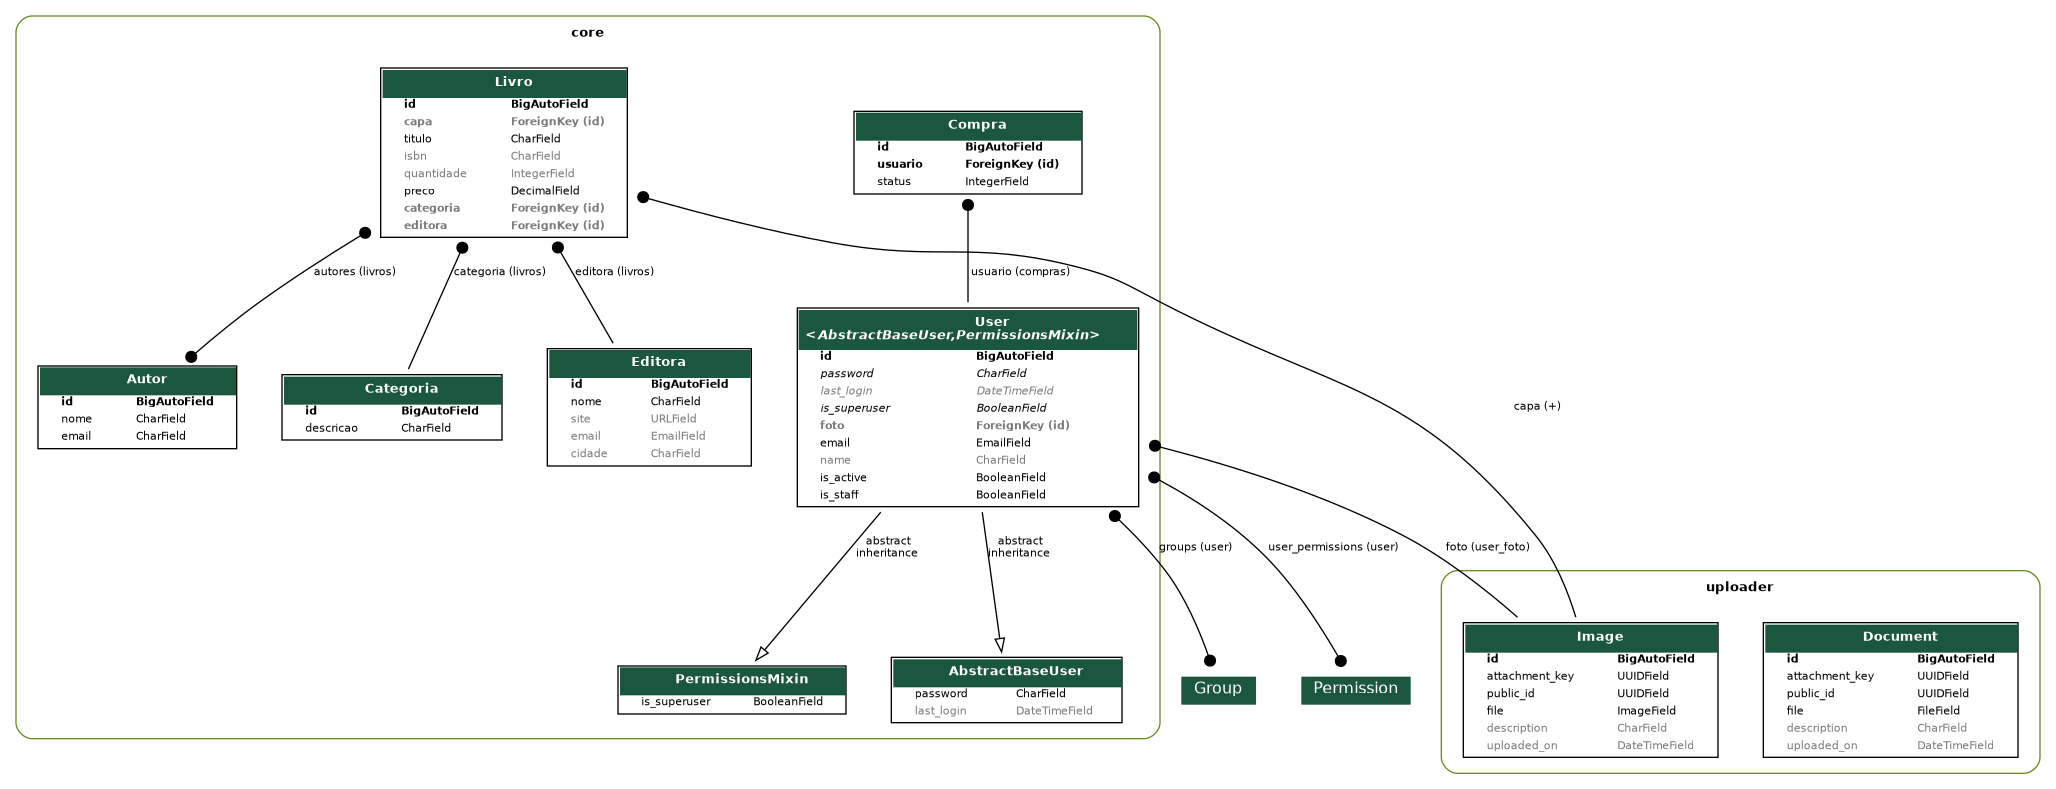
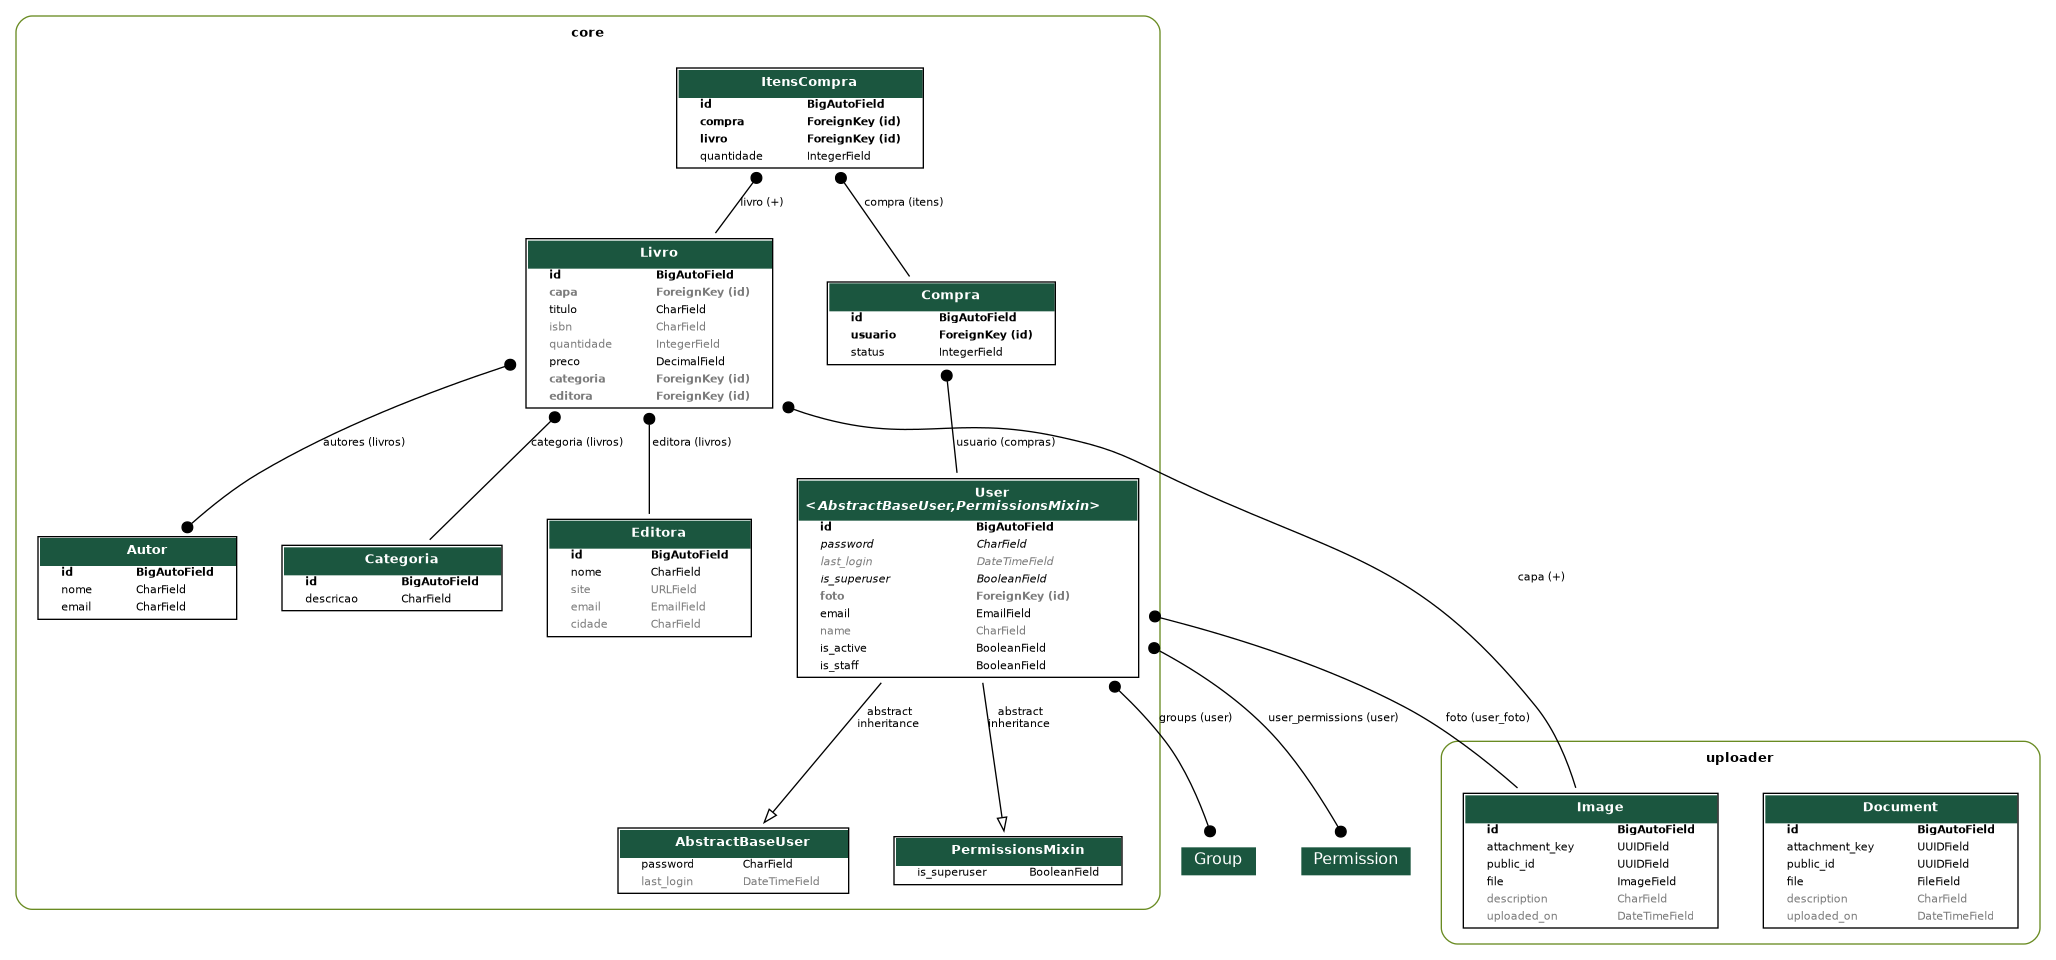
FEAT: criação dos itens da compra

diff --git a/core/migrations/0015_itenscompra.py b/core/migrations/0015_itenscompra.py
@@ -1,0 +1,23 @@
+# Generated by Django 5.2.13 on 2026-06-25 14:44
+
+import django.db.models.deletion
+from django.db import migrations, models
+
+
+class Migration(migrations.Migration):
+
+    dependencies = [
+        ('core', '0014_compra'),
+    ]
+
+    operations = [
+        migrations.CreateModel(
+            name='ItensCompra',
+            fields=[
+                ('id', models.BigAutoField(auto_created=True, primary_key=True, serialize=False, verbose_name='ID')),
+                ('quantidade', models.IntegerField(default=1)),
+                ('compra', models.ForeignKey(on_delete=django.db.models.deletion.CASCADE, related_name='itens', to='core.compra')),
+                ('livro', models.ForeignKey(on_delete=django.db.models.deletion.PROTECT, related_name='+', to='core.livro')),
+            ],
+        ),
+    ]

diff --git a/core/models/compra.py b/core/models/compra.py
@@ -1,6 +1,8 @@
 from django.db import models
 
 from .user import User
+from .livro import Livro
+
 
 class Compra(models.Model):
     class StatusCompra(models.IntegerChoices):
@@ -11,3 +13,8 @@ class Compra(models.Model):
 
     usuario = models.ForeignKey(User, on_delete=models.PROTECT, related_name='compras')
     status = models.IntegerField(choices=StatusCompra.choices,  default=StatusCompra.CARRINHO)
+
+class ItensCompra(models.Model):
+    compra = models.ForeignKey(Compra, on_delete=models.CASCADE, related_name='itens')
+    livro = models.ForeignKey(Livro, on_delete=models.PROTECT, related_name='+')
+    quantidade = models.IntegerField(default=1)

diff --git a/core/models/__init__.py b/core/models/__init__.py
@@ -1,6 +1,6 @@
 from .autor import Autor
 from .categoria import Categoria
-from .compra import Compra
+from .compra import Compra, ItensCompra
 from .editora import Editora
 from .livro import Livro
 from .user import User
